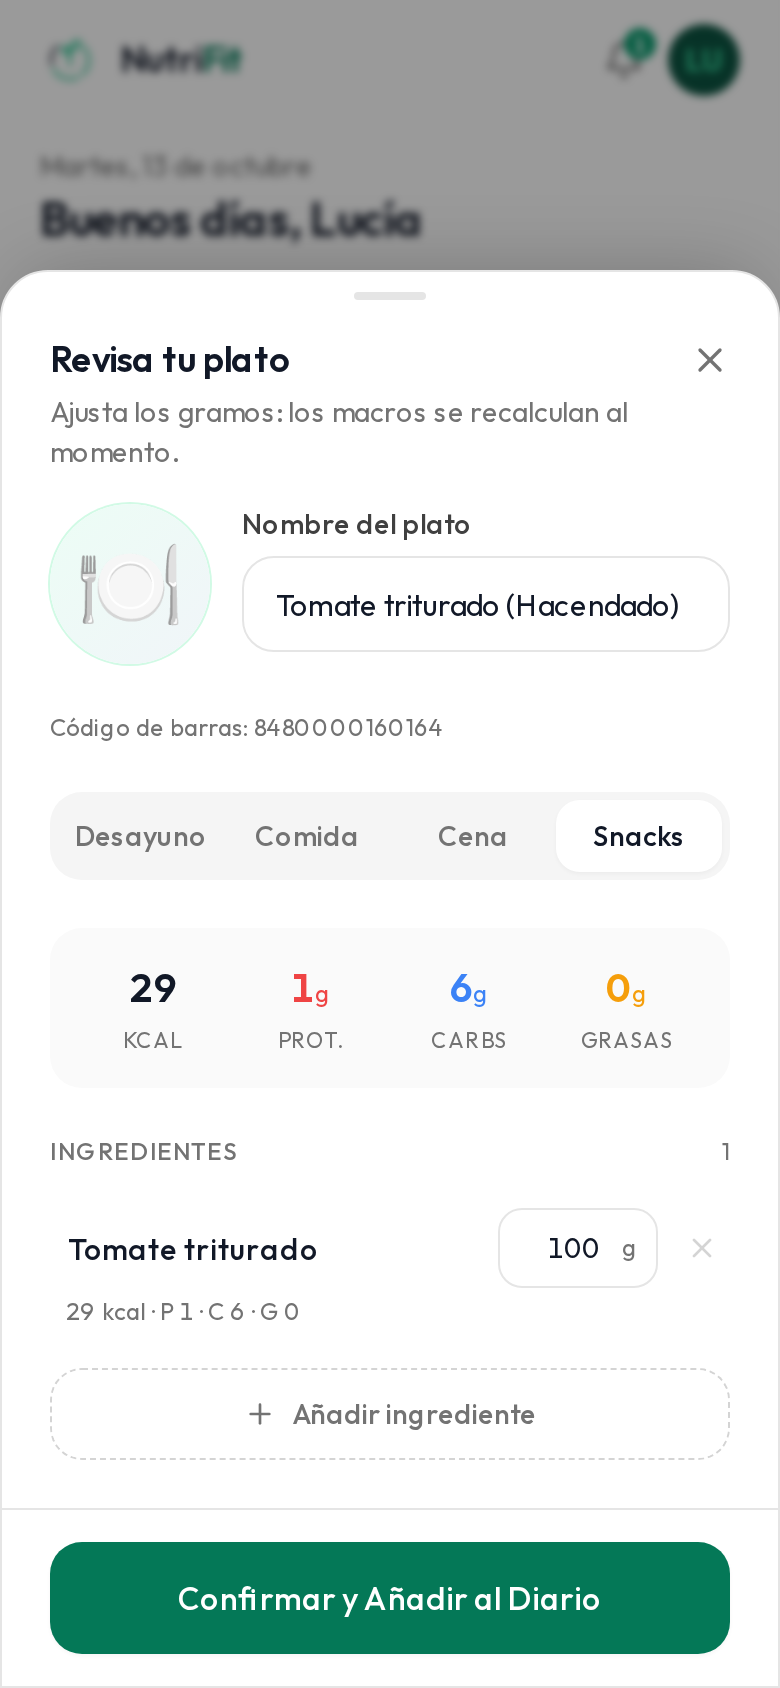
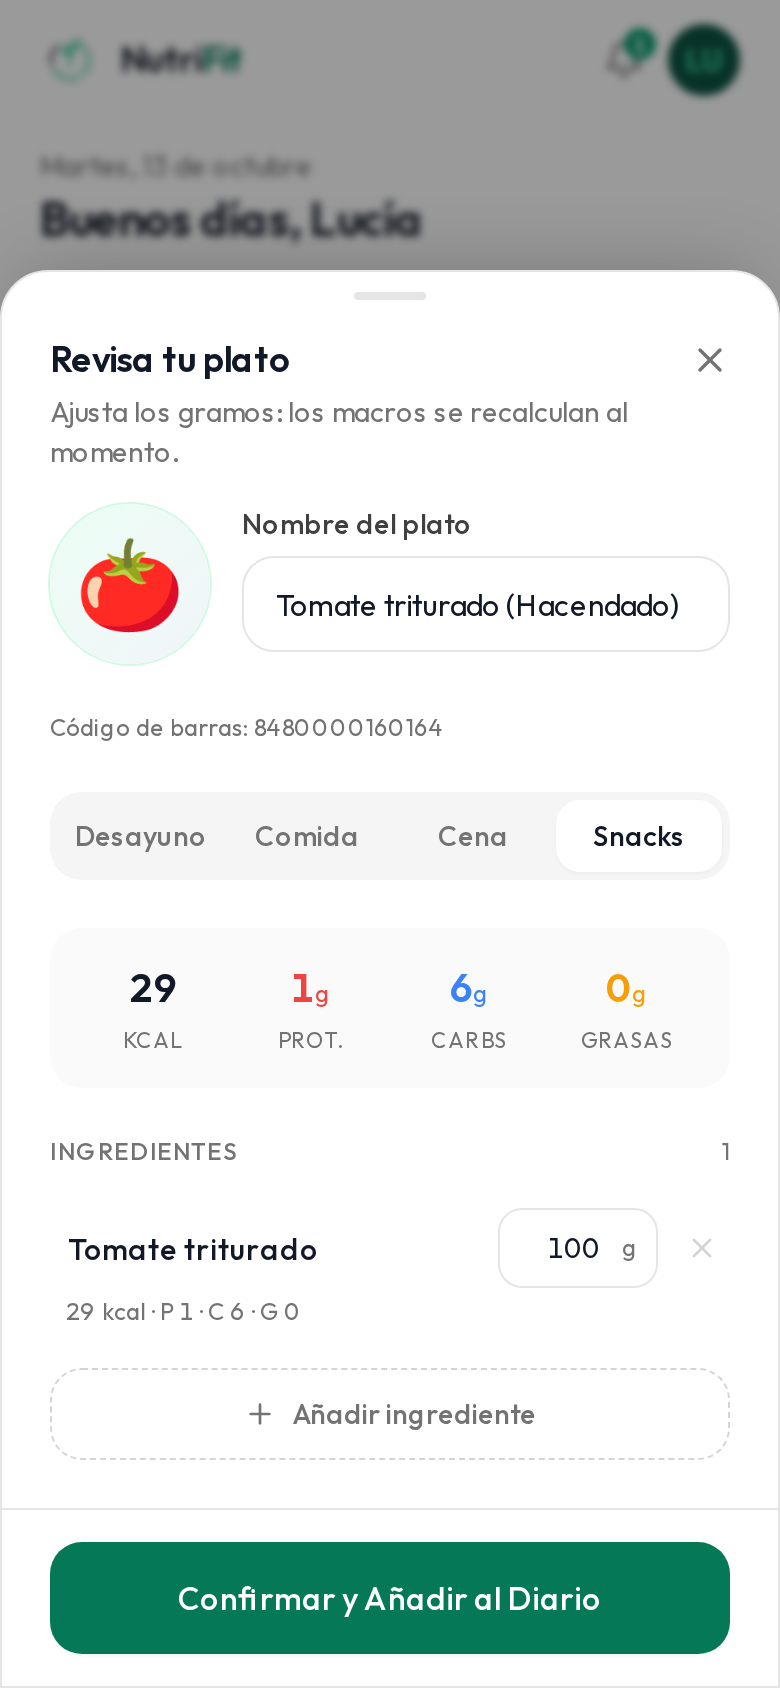
fix(escáner PWA): mensajes por tipo de fallo de cámara, reintento, cámara alternativa, foto del código, linterna, precarga de ZXing y error de chunk; botón Buscar sin desbordar; PWA recarga sola al volver si hay versión nueva

Changed region(s): [[0.0923, 0.3081, 0.2462, 0.4005]]

diff --git a/src/components/EscanerBarcodeModal.tsx b/src/components/EscanerBarcodeModal.tsx
@@ -1,6 +1,6 @@
 import { Component, useEffect, useRef, useState, type ReactNode } from 'react'
 import { normalizarEan } from '../lib/ean.ts'
-import { Barcode, Camera, Search, X } from 'lucide-react'
+import { Barcode, Camera, Flashlight, ImageUp, RotateCcw, Search, X } from 'lucide-react'
 import { ApiError, api } from '../lib/api.ts'
 import { Button } from './ui/Button.tsx'
 
@@ -25,7 +25,9 @@ interface Props {
   alManual?: (codigo: string) => void
 }
 
-type Detector = (v: HTMLVideoElement, lienzo: HTMLCanvasElement) => Promise<string | null>
+type Fuente = HTMLVideoElement | HTMLCanvasElement
+type Detector = (v: Fuente, lienzo: HTMLCanvasElement) => Promise<string | null>
+const dims = (v: Fuente) => (v instanceof HTMLVideoElement ? [v.videoWidth, v.videoHeight] : [v.width, v.height])
 type BarcodeDetectorCtor = { new (o?: { formats: string[] }): { detect: (v: CanvasImageSource) => Promise<{ rawValue: string }[]> }; getSupportedFormats?: () => Promise<string[]> }
 const FORMATOS = ['ean_13', 'ean_8', 'upc_a', 'upc_e']
 const INTERVALO_MS = 140
@@ -50,10 +52,12 @@ async function crearDetector(): Promise<Detector> {
   lector.setHints(pistas)
   return async (v, lienzo) => {
     // Franja central (donde está la guía), reducida: rápido en móviles medios.
-    const w = v.videoWidth, h = v.videoHeight
+    const [w, h] = dims(v)
     if (!w || !h) return null
-    const fw = Math.round(w * 0.8), fh = Math.round(h * 0.45)
-    const escala = Math.min(1, 960 / fw)
+    // En vídeo, franja central; en una foto, la imagen entera.
+    const foto = v instanceof HTMLCanvasElement
+    const fw = foto ? w : Math.round(w * 0.8), fh = foto ? h : Math.round(h * 0.45)
+    const escala = Math.min(1, (foto ? 1600 : 960) / fw)
     lienzo.width = Math.round(fw * escala); lienzo.height = Math.round(fh * escala)
     lienzo.getContext('2d', { willReadFrequently: true })!.drawImage(v, (w - fw) / 2, (h - fh) / 2, fw, fh, 0, 0, lienzo.width, lienzo.height)
     try {
@@ -61,6 +65,33 @@ async function crearDetector(): Promise<Detector> {
     } catch {
       return null
     }
+  }
+}
+
+/** Mensaje claro según el fallo de getUserMedia (permiso, sin cámara, ocupada, contexto inseguro). */
+export function mensajeCamara(e: unknown): string {
+  const n = e instanceof Error ? e.name : ''
+  const ios = /iP(hone|ad|od)/.test(navigator.userAgent)
+  if (n === 'NotAllowedError' || n === 'SecurityError')
+    return ios
+      ? 'No hay permiso para la cámara. En Ajustes › Safari › Cámara elige «Preguntar» o «Permitir» y vuelve a abrir el escáner. También puedes hacer una foto del código.'
+      : 'No hay permiso para la cámara. Toca el candado o «ⓘ» junto a la dirección (o en la app: mantén pulsado el icono › Información › Permisos) y permite la cámara. También puedes hacer una foto del código.'
+  if (n === 'NotFoundError' || n === 'OverconstrainedError') return 'No encontramos una cámara disponible. Haz una foto del código o escríbelo debajo.'
+  if (n === 'NotReadableError' || n === 'AbortError') return 'Otra app está usando la cámara. Ciérrala y pulsa «Reintentar».'
+  if (e instanceof Error && e.message === 'camara') return 'La cámara tarda demasiado en abrirse. Pulsa «Reintentar» o haz una foto del código.'
+  if (!window.isSecureContext || !navigator.mediaDevices?.getUserMedia) return 'Este navegador no permite usar la cámara aquí. Haz una foto del código o escríbelo debajo.'
+  return 'No se pudo usar la cámara. Pulsa «Reintentar», haz una foto del código o escríbelo debajo.'
+}
+
+/** Abre la trasera; si las restricciones fallan, cualquier cámara. */
+async function abrirCamara(): Promise<MediaStream> {
+  if (!navigator.mediaDevices?.getUserMedia) throw new DOMException('sin getUserMedia', 'NotFoundError')
+  try {
+    return await navigator.mediaDevices.getUserMedia({ audio: false, video: { facingMode: { ideal: 'environment' }, width: { ideal: 1280 }, height: { ideal: 720 } } })
+  } catch (e) {
+    const n = e instanceof Error ? e.name : ''
+    if (n === 'NotAllowedError' || n === 'SecurityError') throw e
+    return navigator.mediaDevices.getUserMedia({ audio: false, video: true })
   }
 }
 
@@ -101,6 +132,11 @@ function Escaner({ abierto, alDetectar, alCerrar, alFotoEtiqueta, alManual }: Pr
   const [codigoManual, setCodigoManual] = useState('')
   const [camaraActiva, setCamaraActiva] = useState(false)
   const [ronda, setRonda] = useState(0)
+  const [fallaCamara, setFallaCamara] = useState(false)
+  const [linterna, setLinterna] = useState<null | boolean>(null)
+  const pistaRef = useRef<MediaStreamTrack | null>(null)
+  const detectorRef = useRef<Promise<Detector> | null>(null)
+  const obtenerDetector = () => (detectorRef.current ??= crearDetector().catch((e) => { detectorRef.current = null; throw e }))
   const vivo = useRef(true)
   useEffect(() => () => { vivo.current = false }, [])
 
@@ -116,22 +152,36 @@ function Escaner({ abierto, alDetectar, alCerrar, alFotoEtiqueta, alManual }: Pr
       activo = false
       window.clearTimeout(timer)
       stream?.getTracks().forEach((t) => t.stop())
+      pistaRef.current = null
       stream = null
       if (videoRef.current) videoRef.current.srcObject = null
     }
 
     ;(async () => {
       try {
-        stream = await conTiempo(navigator.mediaDevices.getUserMedia({ video: { facingMode: 'environment', width: { ideal: 1280 }, height: { ideal: 720 } } }), 10000, 'camara')
+        setFallaCamara(false)
+        void obtenerDetector().catch(() => {}) // precarga en paralelo (ZXing es un chunk aparte)
+        stream = await conTiempo(abrirCamara(), 12000, 'camara')
         if (!activo) return parar()
         const pista = stream.getVideoTracks()[0]
+        pistaRef.current = pista ?? null
+        const caps = (pista?.getCapabilities?.() ?? {}) as { torch?: boolean }
+        if (caps.torch) setLinterna(false)
         void pista?.applyConstraints({ advanced: [{ focusMode: 'continuous' } as MediaTrackConstraintSet] }).catch(() => {})
         const v = videoRef.current
         if (!v) return parar()
         v.srcObject = stream
         await v.play().catch(() => {})
         setCamaraActiva(true)
-        const detectar = await crearDetector()
+        let detectar: Detector
+        try {
+          detectar = await obtenerDetector()
+        } catch {
+          // Chunk del lector no disponible (sin conexión o versión vieja tras actualizar).
+          parar()
+          if (vivo.current) { setFallaCamara(true); setError('No se pudo cargar el lector de códigos. Comprueba la conexión y pulsa «Reintentar», o escribe el código debajo.') }
+          return
+        }
         const vuelta = async () => {
           if (!activo) return
           if (v.readyState >= v.HAVE_ENOUGH_DATA) {
@@ -148,15 +198,44 @@ function Escaner({ abierto, alDetectar, alCerrar, alFotoEtiqueta, alManual }: Pr
           if (activo) timer = window.setTimeout(vuelta, INTERVALO_MS)
         }
         void vuelta()
-      } catch {
+      } catch (e) {
         parar()
-        if (vivo.current) setError('No se pudo usar la cámara. Escribe el código de barras debajo.')
+        if (vivo.current) { setFallaCamara(true); setError(mensajeCamara(e)) }
       }
     })()
 
     return parar
     // eslint-disable-next-line react-hooks/exhaustive-deps
   }, [abierto, ronda])
+
+  const reintentar = () => { setError(null); setNoEncontrado(null); setCamaraActiva(false); setLinterna(null); setRonda((r) => r + 1) }
+
+  const alternarLinterna = async () => {
+    const p = pistaRef.current
+    if (!p || linterna === null) return
+    try { await p.applyConstraints({ advanced: [{ torch: !linterna } as MediaTrackConstraintSet] }); setLinterna(!linterna) } catch { setLinterna(null) }
+  }
+
+  /** Foto del código (sin vídeo en directo): útil en iOS o si se deniega la cámara. */
+  const leerFoto = async (archivo: File) => {
+    setError(null)
+    setCargando(true)
+    try {
+      const bmp = await createImageBitmap(archivo)
+      const c = document.createElement('canvas')
+      c.width = bmp.width; c.height = bmp.height
+      c.getContext('2d')!.drawImage(bmp, 0, 0)
+      bmp.close?.()
+      const detectar = await obtenerDetector()
+      const crudo = await detectar(c, document.createElement('canvas'))
+      setCargando(false)
+      if (!crudo) { setError('No vemos un código de barras en la foto. Acércate, que salga recto y nítido, o escríbelo debajo.'); return }
+      void buscarCodigo(crudo)
+    } catch {
+      setCargando(false)
+      setError('No se pudo leer la foto. Escribe el código debajo.')
+    }
+  }
 
   const buscarCodigo = async (entrada: string) => {
     const limpio = entrada.replace(/\D/g, '')
@@ -208,6 +287,7 @@ function Escaner({ abierto, alDetectar, alCerrar, alFotoEtiqueta, alManual }: Pr
           <button
             type="button"
             onClick={alCerrar}
+            aria-label="Cerrar escáner"
             className="flex h-8 w-8 items-center justify-center rounded-full text-neutral-400 transition hover:bg-neutral-100 hover:text-neutral-700 dark:hover:bg-neutral-800 dark:hover:text-neutral-200"
           >
             <X size={18} />
@@ -216,7 +296,7 @@ function Escaner({ abierto, alDetectar, alCerrar, alFotoEtiqueta, alManual }: Pr
 
         {/* Visor de cámara con visor de enfoque */}
         <div className="relative aspect-4/3 w-full overflow-hidden rounded-2xl bg-neutral-900 border border-neutral-800">
-          <video ref={videoRef} className="h-full w-full object-cover" playsInline muted />
+          <video ref={videoRef} className="h-full w-full object-cover" playsInline muted autoPlay aria-label="Vista de la cámara" />
           
           {camaraActiva ? (
             <div className="pointer-events-none absolute inset-0 flex items-center justify-center p-6">
@@ -229,11 +309,27 @@ function Escaner({ abierto, alDetectar, alCerrar, alFotoEtiqueta, alManual }: Pr
                 <div className="absolute left-2 right-2 top-1/2 h-0.5 bg-mint/90 shadow-[0_0_8px_#10b981] animate-pulse" />
               </div>
             </div>
-          ) : (
-            <div className="flex h-full flex-col items-center justify-center gap-2 text-neutral-500">
-              <Camera size={28} strokeWidth={1.5} />
-              <span className="text-xs">Iniciando cámara...</span>
+          ) : fallaCamara ? (
+            <div className="absolute inset-0 flex flex-col items-center justify-center gap-3 p-4 text-center text-neutral-300">
+              <Camera size={28} strokeWidth={1.5} aria-hidden="true" />
+              <div className="flex flex-wrap justify-center gap-2">
+                <button type="button" onClick={reintentar} className="inline-flex items-center gap-1.5 rounded-xl bg-white/10 px-3 py-2 text-xs font-semibold text-white hover:bg-white/20"><RotateCcw size={14} aria-hidden="true" />Reintentar</button>
+                <label className="inline-flex cursor-pointer items-center gap-1.5 rounded-xl bg-mint-700 px-3 py-2 text-xs font-semibold text-white focus-within:ring-4 focus-within:ring-mint/30">
+                  <ImageUp size={14} aria-hidden="true" />Foto del código
+                  <input type="file" accept="image/*" capture="environment" className="sr-only" onChange={(e) => { const f = e.target.files?.[0]; e.target.value = ''; if (f) void leerFoto(f) }} />
+                </label>
+              </div>
             </div>
+          ) : (
+            <div className="absolute inset-0 flex flex-col items-center justify-center gap-2 text-neutral-500" role="status">
+              <Camera size={28} strokeWidth={1.5} aria-hidden="true" />
+              <span className="text-xs">Iniciando cámara…</span>
+            </div>
+          )}
+          {camaraActiva && linterna !== null && (
+            <button type="button" onClick={() => void alternarLinterna()} aria-pressed={linterna} aria-label={linterna ? 'Apagar linterna' : 'Encender linterna'} className={`absolute bottom-3 right-3 flex h-10 w-10 items-center justify-center rounded-full ${linterna ? 'bg-amber-300 text-black' : 'bg-black/50 text-white'}`}>
+              <Flashlight size={18} aria-hidden="true" />
+            </button>
           )}
 
           {cargando && (
@@ -262,7 +358,7 @@ function Escaner({ abierto, alDetectar, alCerrar, alFotoEtiqueta, alManual }: Pr
                 </label>
               )}
               {alManual && <button type="button" onClick={() => { alManual(noEncontrado); alCerrar() }} className="rounded-xl border border-neutral-200 px-3 py-2 text-xs font-semibold dark:border-neutral-700">Añadir a mano</button>}
-              <button type="button" onClick={() => { setNoEncontrado(null); setError(null); setCamaraActiva(false); setRonda((r) => r + 1) }} className="rounded-xl px-3 py-2 text-xs font-semibold text-mint-700 dark:text-mint-400">Volver a escanear</button>
+              <button type="button" onClick={reintentar} className="rounded-xl px-3 py-2 text-xs font-semibold text-mint-700 dark:text-mint-400">Volver a escanear</button>
             </div>
           </div>
         )}
@@ -278,14 +374,15 @@ function Escaner({ abierto, alDetectar, alCerrar, alFotoEtiqueta, alManual }: Pr
           <input
             type="text"
             inputMode="numeric"
-            placeholder="O escribe el código (ej. 8412700012955)"
+            placeholder="O escribe el código"
+            aria-label="Código de barras (8 o 13 cifras)"
             autoComplete="off"
             maxLength={14}
             value={codigoManual}
             onChange={(e) => setCodigoManual(e.target.value)}
-            className="flex-1 rounded-xl border border-neutral-200 bg-neutral-50 px-3.5 py-2.5 text-sm text-graphite focus:border-mint focus:outline-none dark:border-neutral-800 dark:bg-neutral-900 dark:text-neutral-100"
+            className="min-w-0 flex-1 rounded-xl border border-neutral-200 bg-neutral-50 px-3.5 py-2.5 text-sm text-graphite focus:border-mint focus:outline-none dark:border-neutral-800 dark:bg-neutral-900 dark:text-neutral-100"
           />
-          <Button type="submit" loading={cargando} disabled={!codigoManual.trim()} icon={<Search size={16} />}>
+          <Button type="submit" className="shrink-0" loading={cargando} disabled={!codigoManual.trim()} icon={<Search size={16} />}>
             Buscar
           </Button>
         </form>

diff --git a/src/lib/sw.ts b/src/lib/sw.ts
@@ -34,6 +34,11 @@ export function registrarServiceWorker() {
   navigator.serviceWorker.addEventListener('controllerchange', () => {
     if (!habiaControlador || avisado) return
     avisado = true
+    // PWA instalada que estaba en segundo plano: al volver, recarga sola con la versión nueva.
+    if (document.visibilityState === 'hidden') {
+      document.addEventListener('visibilitychange', () => document.visibilityState === 'visible' && window.location.reload(), { once: true })
+      return
+    }
     window.dispatchEvent(new CustomEvent('nf:actualizacion'))
   })
 }

diff --git a/index.html b/index.html
@@ -70,6 +70,7 @@
     <link rel="apple-touch-icon" href="/icons/apple-touch-icon.png" />
     <link rel="manifest" href="/manifest.json" />
     <meta name="mobile-web-app-capable" content="yes" />
+    <meta name="mobile-web-app-capable" content="yes" />
     <meta name="apple-mobile-web-app-capable" content="yes" />
     <meta name="apple-mobile-web-app-status-bar-style" content="default" />
     <meta name="apple-mobile-web-app-title" content="NutriFit" />
